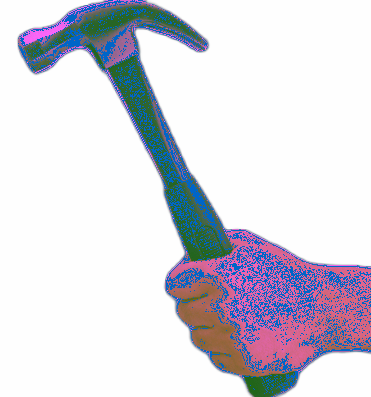
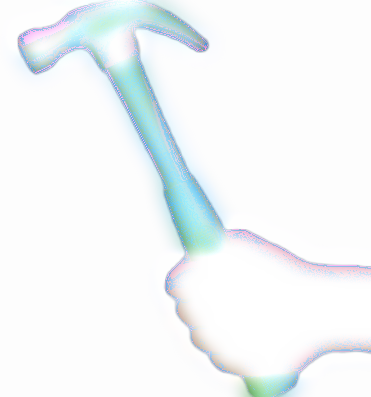
weapons

Changed region(s): [[0.0296, 0.0, 1.0, 1.0]]

diff --git a/changeLevels.js b/changeLevels.js
@@ -78,7 +78,7 @@ function changeLevels() {
         box(5000, 20000, 5000);
         pop();
 
-        drawWeapon(arm);
+        drawWeapon(intempo);
         levelOne.showLevelNumber();
 
         if (displayAlert === false) {
@@ -221,7 +221,7 @@ function changeLevels() {
         translate(-500, -300, 0);
         strokeWeight(20);
         fill(0, 150, 255);
-        text("Thanks for playing :)", 100, 0);
+        text("Thanks for playing", 100, 0);
         translate(200, 200, 0);
         image(sky, 0, 0, 500, 500);
         pop();

diff --git a/sketch.js b/sketch.js
@@ -56,6 +56,7 @@ let raynaFilter;
 let kingfisher;
 let gun;
 let arm;
+let intempo;
 let arch;
 let ancientPot;
 let deaconClear;
@@ -191,6 +192,7 @@ function preload() {    //Preload images, text files and audio
   sky = loadImage('img/skycircle.png');
   lift = loadImage('img/lift.jpg');
   sword = loadImage('img/energysword.png');
+  intempo = loadImage('img/intempo.png');
   gun = loadImage('img/gun.png');
   arm = loadImage('img/arm-filter.png');
   mx5 = loadImage('img/mx5.jpg');
